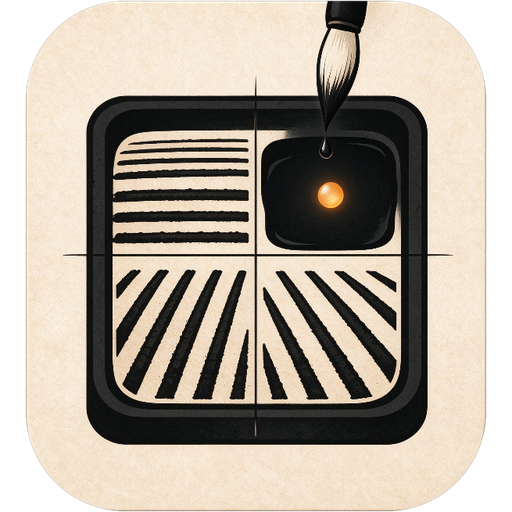
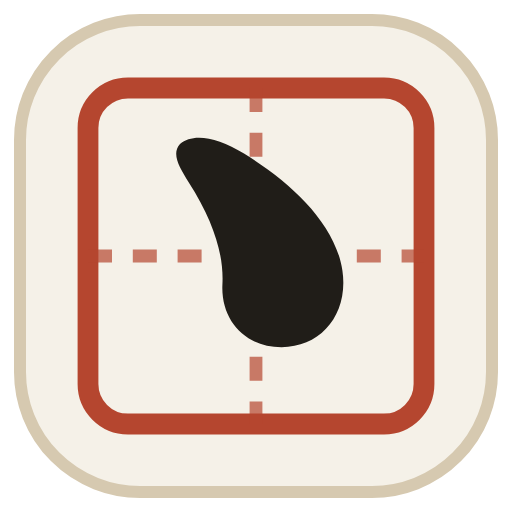
style: 更换砚田标识为田字格墨点，并在 README 顶部展示
- 新标识：宣纸方块 + 朱红田字格 + 一笔墨点，浅色/深色通用
- 更新 logo、favicon、brand-mark、og 与 banner
- 站点图标优先使用 SVG
- README 顶部加入随主题切换的标识
- 忽略本地 video/ 宣传片工程

diff --git a/components/brand/InkstoneMark.tsx b/components/brand/InkstoneMark.tsx
@@ -1,6 +1,6 @@
 import { cn } from "@/lib/ui/cn";
 
-/** 砚台标识。图源是带笔与墨池的圆角标，透明底，浅色和夜航里都能看清。 */
+/** 砚田标识：宣纸方块上的朱红田字格与一笔墨点，矢量图，小尺寸和深色主题下都清晰。 */
 export function InkstoneMark({ className }: { className?: string }) {
-  return <img src="/brand-mark.png" alt="砚田" width={512} height={512} className={cn("object-contain", className)} />;
+  return <img src="/logo.svg" alt="砚田" width={64} height={64} className={cn("object-contain", className)} />;
 }

diff --git a/app/layout.tsx b/app/layout.tsx
@@ -15,8 +15,11 @@ export const metadata: Metadata = {
   applicationName: "砚田 Yanfield",
   authors: [{ name: "Zzima", url: "https://github.com/ZzimaR" }],
   icons: {
-    icon: [{ url: "/brand-mark.png", type: "image/png" }],
-    shortcut: ["/brand-mark.png"],
+    icon: [
+      { url: "/favicon.svg", type: "image/svg+xml" },
+      { url: "/brand-mark.png", type: "image/png" },
+    ],
+    shortcut: ["/favicon.svg"],
     apple: [{ url: "/brand-mark.png" }],
   },
   openGraph: {

diff --git a/README.md b/README.md
@@ -1,5 +1,10 @@
 <div align="center">
 
+<picture>
+  <source media="(prefers-color-scheme: dark)" srcset="docs/assets/logo-dark.svg">
+  <img src="docs/assets/logo-light.svg" alt="砚田标识：宣纸方块上的朱红田字格与一笔墨点" width="96" height="96">
+</picture>
+
 # 砚田 Yanfield
 
 **为长篇故事留一方安静的书桌。**
